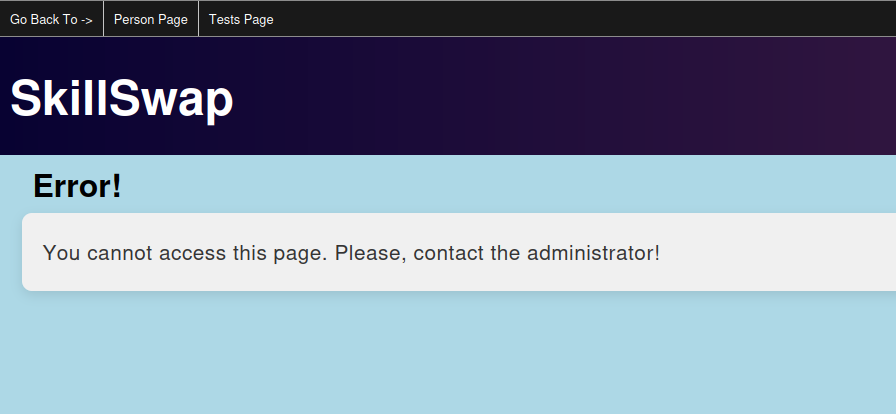
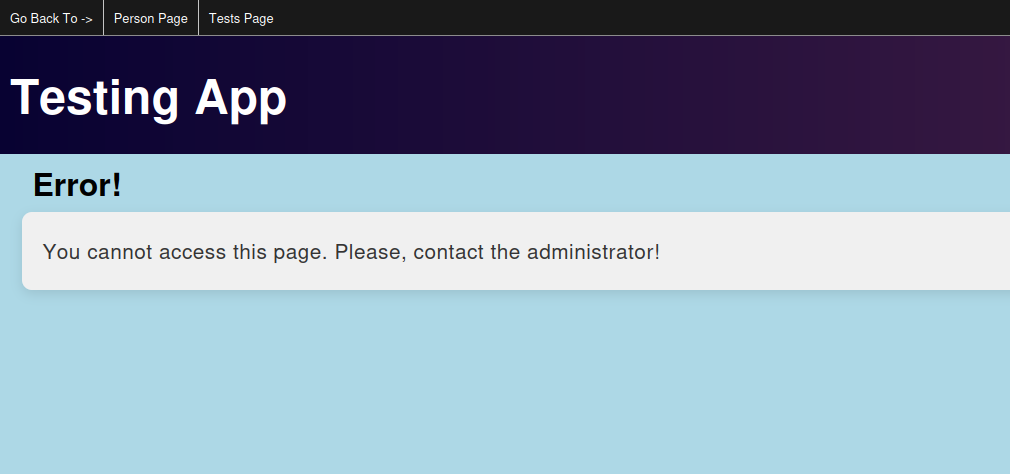
Add readme

Changed region(s): [[0.0, 0.1449, 1.0, 0.5797], [0.0, 0.5797, 1.0, 0.7246], [0.0, 0.0, 1.0, 0.087]]

diff --git a/src/main/resources/templates/error/403.html b/src/main/resources/templates/error/403.html
@@ -27,7 +27,7 @@
                 <li><a href="/tests">Tests Page</a></li>
             </ul>
         </nav>
-        <h1>SkillSwap</h1>
+        <h1>Testing App</h1>
     </header>
 
     <ul>

diff --git a/src/main/resources/templates/error/retry.html b/src/main/resources/templates/error/retry.html
@@ -27,7 +27,7 @@
                 <li><a href="/tests">Tests Page</a></li>
             </ul>
         </nav>
-        <h1>SkillSwap</h1>
+        <h1>Testing App</h1>
     </header>
 
     <ul>
